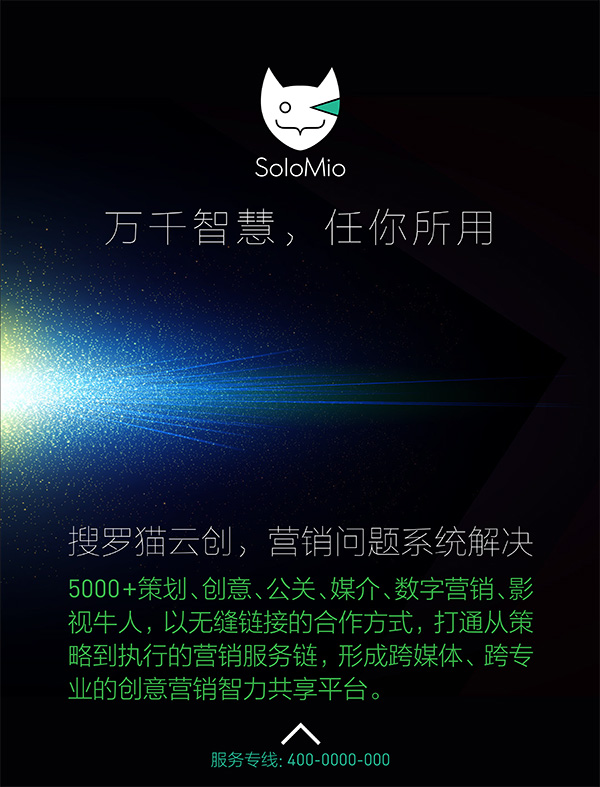
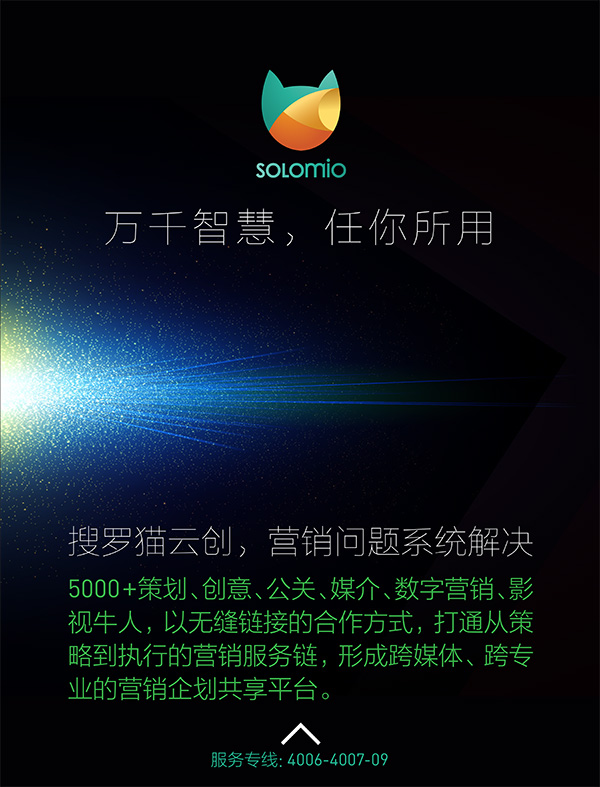
admin

Changed region(s): [[0.42, 0.0915, 0.57, 0.244], [0.18, 0.8539, 0.63, 0.9149], [0.51, 0.9454, 0.66, 0.9759]]

diff --git a/src/components/admin/main.vue b/src/components/admin/main.vue
@@ -76,7 +76,7 @@
     data: function () {
       return {
         path: '',
-        loginPop: true,
+        loginPop: false,
         modal_loading: false,
         loginForm: {
           fieldSet: {
@@ -108,7 +108,8 @@
       }
     },
     created: function () {
-      this.getUserInfo()
+//      this.getUserInfo()
+      this.loginPop = true
       this.path = this.$route.path
       this.$router.afterEach((to, from) => {
         this.path = to.path

diff --git a/src/components/mobile/widget/navLeft.vue b/src/components/mobile/widget/navLeft.vue
@@ -13,7 +13,7 @@
         </li>
       </ul>
       <div class="margin-top-20 fc-gray-l">
-        021－555565656<br/>
+        4006-4007-09<br/>
         周一至周五<br/>
         10:00-19:00
       </div>

diff --git a/src/sass/admin/common/layout.scss b/src/sass/admin/common/layout.scss
@@ -4,6 +4,7 @@
     position:fixed;
     left:0;
     top:60px;
+    min-height: 80%;
   }
   .main-container{
     position:absolute;
